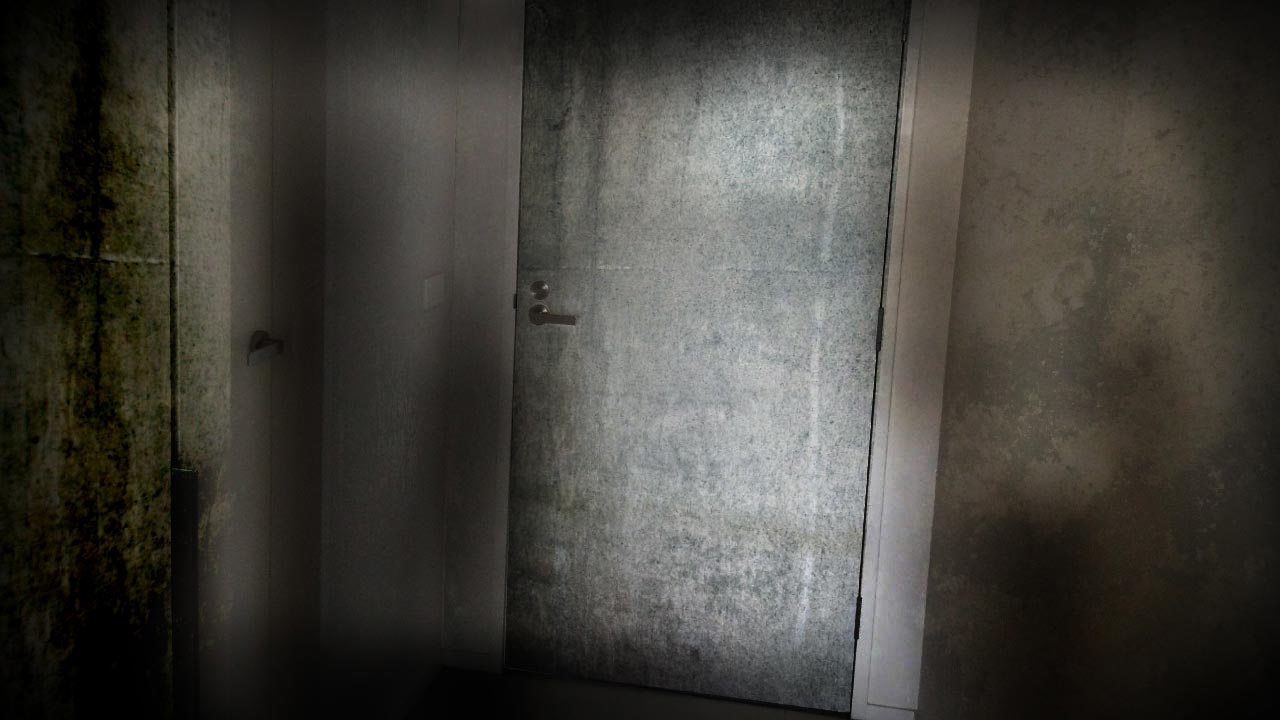
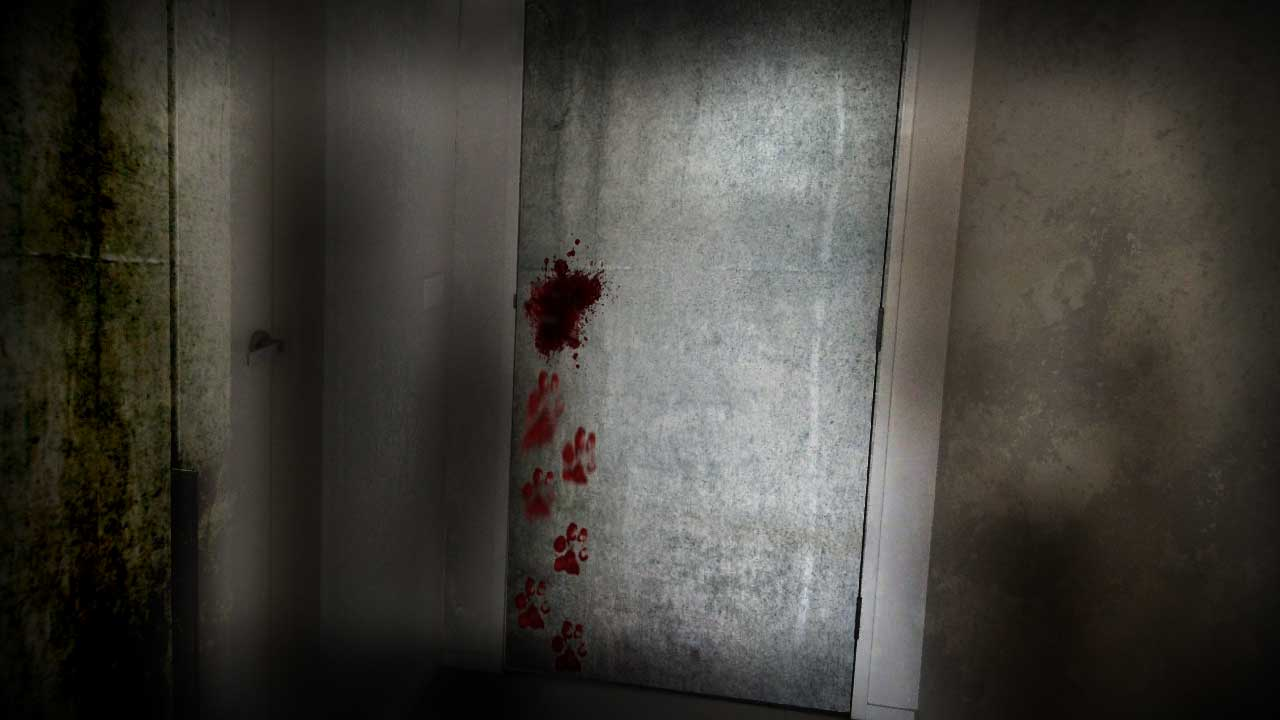
Filling out game content

Changed region(s): [[0.4062, 0.3361, 0.4688, 0.7333], [0.4062, 0.7333, 0.4688, 0.9167]]

diff --git a/public/js/game.js b/public/js/game.js
@@ -1,6 +1,7 @@
 var DEBUG = (window.location.search == "?debug");
 var DEBUG_STARTING_GRUNGE_LEVEL = 'grunge_02';
-var DEBUG_STARTING_VIEW_KEY = 'corridor';
+var DEBUG_STARTING_VIEW_KEY = 'livingroom_forward';
+var DEBUG_STARTING_INVENTORY = ['knife', 'key', 'cloth'];
 
 var GAME_WIDTH = 1280;
 var GAME_HEIGHT = 720;
@@ -17,14 +18,47 @@ var ITEMS = {
     has_view_image: false,
     action: {
       do_choose: function(){ return state.grunge_level },
-      normal:    { do_dialog: 'computer', do_grunge_level: 'grunge_01' },
-      grunge_01: { do_dialog: 'computer_original', do_grunge_level: 'grunge_02' },
+      normal:    { do_dialog: 'computer_normal' },
+      grunge_01: { do_dialog: 'computer_grunge_01' },
+      grunge_02: { do_dialog: 'computer_grunge_02' },
     }
   },
 
   key: {
     has_view_image: true,
     action: { do_dialog: 'key', do_give: 'key', do_destroy: true },
+  },
+
+  knife: {
+    has_view_image: true,
+    only_in_grunge_levels: ['grunge_01'],
+    action: {
+      do_dialog: 'got_knife',
+      do_give: 'knife',
+      do_destroy: true,
+      do_grunge_level: 'grunge_02',
+    },
+  },
+
+  cloth: {
+    has_view_image: true,
+    only_in_grunge_levels: ['grunge_01'],
+    action: { do_dialog: 'got_cloth', do_give: 'cloth', do_destroy: true },
+  },
+
+  collar: {
+    has_view_image: true,
+    action: { do_dialog: 'collar', do_destroy: true, do_grunge_level: 'grunge_01' },
+  },
+
+  dog_bed: {
+    has_view_image: false,
+    only_in_grunge_levels: ['normal', 'grunge_01'],
+    action: {
+      do_choose: function(){ return state.grunge_level },
+      normal:    { do_dialog: 'dog_bed_normal' },
+      grunge_01: { do_dialog: 'dog_bed_grunge_01' },
+    }
   },
 
   photo: {
@@ -37,42 +71,85 @@ var ITEMS = {
     },
   },
 
-  door: {
+  lotion: {
+    has_view_image: false,
+    action: {
+      do_choose: function(){ return state.grunge_level; },
+      normal:    { do_dialog: 'lotion_normal' },
+      grunge_01: { do_dialog: 'lotion_grunge_01' },
+      grunge_02: { do_dialog: 'lotion_grunge_02' },
+    }
+  },
+
+  balcony_door: {
     action: {
       do_choose: function(){ return player_has('key') ? 'unlocked' : 'locked'; },
-      locked: { do_dialog: 'door_locked' },
+      locked: { do_dialog: 'balcony_door_locked' },
+      unlocked: { do_view: 'balcony' },
+    }
+  },
+
+  corridor_door: {
+    action: {
+      do_choose: function(){
+        if(state.grunge_level == 'grunge_01' && !player_has('cloth')) {
+          return 'locked';
+        } else {
+          return 'unlocked';
+        }
+      },
       unlocked: { do_view: 'corridor' },
+      locked: { do_dialog: 'corridor_door_dirty' },
+    }
+  },
+
+  balcony_outside_door: {
+    action: {
+      do_choose: function(){ return player_has('knife') ? 'ending' : 'go_back' },
+      go_back: { do_view: 'livingroom_backward' },
+      ending: { do_cutscene: 'monster_fight', do_once: true }
     }
   },
 
   monster: {
     only_in_grunge_levels: ['grunge_02'],
     has_view_image: true,
-    action: { do_cutscene: 'monster_fight', do_destroy: true },
   }
 }
 
 var DIALOGS = {
-  key: {
-    text: 'Why does my house key have the Suzuki logo on it?',
-    image: true,
-  },
+  key: { image: true },
+  collar: { image: true, text: "Is that Sal's hair?" },
   computer: {
     text: 'What is Dix? This is foreign to me.',
     image: true,
   },
   computer_original: { text: 'Is that hacker news?' },
-  door_locked: { text: 'The door is locked.' },
+  balcony_door_locked: { text: 'The door is locked.' },
 
-  photo_normal: { image: true, text: 'My two girls. They must have gone for a walk.' },
+  photo_normal:    { image: true, text: 'My two girls. They must have gone for a walk.' },
   photo_grunge_01: { image: true, text: "They didn't go for a walk, did they?" },
   photo_grunge_02: { image: true, text: 'Sal?' },
 
+  lotion_normal:    { image: true, text: "Is that what makes her smell so damn good?" },
+  lotion_grunge_01: { image: true, text: "She forgot to take that." },
+  lotion_grunge_02: { image: true, text: "Stupid bitch left that here on purpose. She won't let me forget her." },
+
+  dog_bed_normal: { text: "Peach is getting too big for that." },
+  dog_bed_grunge_01: { text: "Where is that bloody dog?" },
+
+  computer_normal:    { image: true, text: "They look so good together."},
+  computer_grunge_01: { image: true, text: "Did I search that?"},
+  computer_grunge_02: { image: true, text: "What the hell?"},
+
+  corridor_door_dirty: { text: "I'm not touching that." },
+  got_cloth: { image: true, text: "I'll use this." },
+  got_knife: { image: true, text: "How did this get out here?" },
+
   // view enter_action dialogs
   bed_forward_normal: { text: "It's light out. Why didn't Sal wake me?" },
-  livingroom_backward_normal: { text: "Is that Sal's hair?" },
-  hallway_backward_entrance_normal: { text: "Sounds like it's coming from outside." },
-  corridor_grunge_02: { text: "Hello?" },
+  hallway_backward_entrance_grunge_01: { text: "What's that scratching?" },
+  corridor_grunge_02: { text: '"Hello?"'},
   bed_backward_grunge_02: { text: "Is that me?" },
 }
 
@@ -81,7 +158,7 @@ var VIEWS = {
     paths: { bed_backward: [890, 670] },
     enter_action: {
       do_choose: function(){ return state.grunge_level; },
-      normal: { do_dialog: 'bed_forward_normal' },
+      normal: { do_dialog: 'bed_forward_normal', do_once: true },
     }
   },
 
@@ -89,7 +166,7 @@ var VIEWS = {
     paths: { hallway_forward: [132.5, 663] },
     enter_action: {
       do_choose: function(){ return state.grunge_level; },
-      grunge_02: { do_dialog: 'bed_backward_grunge_02' },
+      grunge_02: { do_dialog: 'bed_backward_grunge_02', do_once: true },
     }
   },
 
@@ -104,27 +181,28 @@ var VIEWS = {
 
   livingroom_forward: {
     paths: {
-      balcony: [1225, 260],
       hallway_backward_couch: [641, 678],
     },
     items: {
       computer: [597, 289],
       photo: [123, 166],
+      key: [260, 248],
+      balcony_door: [1225, 260],
     },
   },
 
   balcony: {
-    paths: { livingroom_backward: [102.5, 668] },
-    items: { monster: [720, 516] }
+    paths: {},
+    items: {
+      balcony_outside_door: [102.5, 668],
+      monster: [720, 516],
+      dog_bed: [650, 668],
+    }
   },
 
   livingroom_backward: {
     paths: { hallway_backward_couch: [979, 106] },
-    items: { key: [610, 447] },
-    enter_action: {
-      do_choose: function(){ return state.grunge_level; },
-      normal: { do_dialog: 'livingroom_backward_normal' },
-    }
+    items: { collar: [915, 434] },
   },
 
   hallway_backward_entrance: {
@@ -132,10 +210,10 @@ var VIEWS = {
       hallway_forward: [658, 670],
       bathroom: [268, 343],
     },
-    items: { door: [694.5, 355] },
+    items: { corridor_door: [540, 312] },
     enter_action: {
       do_choose: function(){ return state.grunge_level; },
-      normal: { do_dialog: 'hallway_backward_entrance_normal' },
+      grunge_01: { do_dialog: 'hallway_backward_entrance_grunge_01', do_once: true },
     }
   },
 
@@ -148,24 +226,29 @@ var VIEWS = {
 
   corridor: {
     paths: { hallway_backward_entrance: [667, 680] },
+    items: { knife: [725, 541] },
     enter_action: {
       do_choose: function(){ return state.grunge_level; },
-      grunge_02: { do_dialog: 'corridor_grunge_02' },
+      grunge_02: { do_dialog: 'corridor_grunge_02', do_once: true },
     }
   },
 
   bathroom: {
-    paths: { hallway_forward: [1220, 494] },
-    items: {},
+    paths: { hallway_forward: [675, 670] },
+    items: {
+      lotion: [1072, 292],
+      cloth: [1185, 475],
+    },
   }
 }
 
 var state = {
   view_key: (DEBUG ? DEBUG_STARTING_VIEW_KEY : 'bed_forward'),
-  inventory: [],
+  inventory: (DEBUG ? DEBUG_STARTING_INVENTORY : []),
   grunge_level: (DEBUG ? DEBUG_STARTING_GRUNGE_LEVEL : GRUNGE_LEVELS[0]),
 
   view_group: null,
+  dialog_group: null,
   last_click: null,
   preload_sprite: null,
   grunge_level_audio: null,
@@ -318,8 +401,10 @@ function make_item_sprite(coord, item_key, grunge_level){
     circle.endFill();
     circle.inputEnabled = true;
     circle.events.onInputDown.add(function(){
-      item = get_item(item_key);
-      perform_action(item.action, item, group);
+      if(!state.dialog_group){
+        item = get_item(item_key);
+        perform_action(item.action, item, group);
+      }
     });
 
     return group;
@@ -342,16 +427,17 @@ function move_to_view(view_key) {
 function perform_view_action(view_key) {
   view = VIEWS[view_key];
   if(view.enter_action){
-    action = view.enter_action;
-    view.enter_action = null; // only do it once
-    game.time.events.add(Phaser.Timer.SECOND * 0.5, function(){
-      perform_action(action);
-    });
+    perform_action(view.enter_action);
   }
 }
 
 function perform_action(action, item, sprite) {
   if(!action) return;
+  if(action.already_done) return;
+
+  if(action.do_once){
+    action.already_done = true;
+  }
 
   if(action.do_give){
     state.inventory.push(action.do_give);
@@ -385,10 +471,12 @@ function perform_action(action, item, sprite) {
 }
 
 function monster_fight_cutscene(){
-  monster = game.add.sprite(GAME_WIDTH/2, GAME_HEIGHT, 'monster_close');
-  state.view_group.add(monster);
-  monster.anchor.setTo(0.5, 1.0);
-  game.add.tween(monster.scale).from({x: 0.6, y: 0.6}, 200, 'Bounce.easeOut', true);
+  game.time.events.add(3000, function(){
+    monster = game.add.sprite(GAME_WIDTH/2, GAME_HEIGHT, 'monster_close');
+    state.view_group.add(monster);
+    monster.anchor.setTo(0.5, 1.0);
+    game.add.tween(monster.scale).from({x: 0.6, y: 0.6}, 200, 'Bounce.easeOut', true);
+  });
 }
 
 function transition_to_grunge_level(new_grunge_level) {
@@ -409,6 +497,7 @@ function transition_to_grunge_level(new_grunge_level) {
 
 function show_dialog(dialog_key, sprite) {
   group = game.add.group();
+  state.dialog_group = group;
   dialog = DIALOGS[dialog_key];
   if(!dialog){
     console.log("Missing dialog '" + dialog_key + "'");
@@ -437,17 +526,17 @@ function show_dialog(dialog_key, sprite) {
 
   // show image (if available)
   if(dialog.image){
-    image_h_space = dialog.text ? GAME_HEIGHT * 0.7 : GAME_HEIGHT
+    image_h_space = dialog.text ? GAME_HEIGHT * 0.8 : GAME_HEIGHT
     image = game.add.sprite(GAME_WIDTH/2, image_h_space/2, 'dialogs/' + dialog_key);
     group.add(image);
     image.anchor.setTo(0.5, 0.5)
     game.add.tween(image).from({ y: sprite.y, x: sprite.x, alpha: 0 }, 700, "Linear", true);
-    game.add.tween(image.scale).from({ y: 0.2, x: 0.2 }, 1000, "Linear", true);
+    game.add.tween(image.scale).from({ y: 0.2, x: 0.2 }, 700, "Linear", true);
   }
 
   // show text (if available)
   if(dialog.text){
-    text_h_space = dialog.image ? GAME_HEIGHT * 0.3 : GAME_HEIGHT;
+    text_h_space = dialog.image ? GAME_HEIGHT * 0.2 : GAME_HEIGHT;
     text_style = { fill: "#fff", boundsAlignH: "center", boundsAlignV: "middle" };
     text = game.add.text(0, 0, dialog.text, text_style);
     group.add(text);
@@ -464,6 +553,7 @@ function dismiss_dialog(blurs, group) {
   tween = game.add.tween(group).to({alpha: 0}, 300, "Linear", true);
   tween.onComplete.add(function(){
     group.destroy();
+    state.dialog_group = null;
     state.view_group.filters = null;
   })
 }
